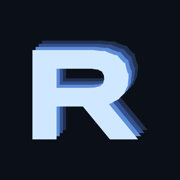
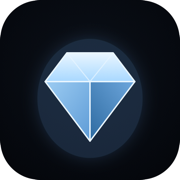
Replace native scrollbar with bottom chapter progress bar
YouTube-style frosted-glass bar pinned to the viewport bottom: 3 chapters
(About Us / Six Problems w/ one notch per cube / Contact). Fill tracks true
scroll through the 700vh rig, current chapter+notch highlight, labels on hover,
clicks smooth-scroll to each beat (RYNH face-on, per-cube center, contact).
Native scrollbar hidden cross-browser; bar hides on a cube dive (body.detail).

diff --git a/index.html b/index.html
@@ -3,7 +3,7 @@
 <head>
 <meta charset="utf-8" />
 <meta name="viewport" content="width=device-width, initial-scale=1, viewport-fit=cover" />
-<title>RYNH — Software, Automation & Strategy</title>
+<title>RYNH, Ryan Hosseini, Vancouver Software Developer</title>
 <meta name="description" content="RYNH builds custom software, automation, data systems, and digital strategy for small businesses. Engineering and business expertise from founder Ryan Hosseini. Based in Vancouver, serving worldwide." />
 <meta name="author" content="Ryan Hosseini" />
 <meta name="keywords" content="Ryan Hosseini, RYNH, Ryan Hosseini Vancouver, RYNH Vancouver, software developer Vancouver, business automation, custom software, full stack developer, SFU Beedie" />
@@ -182,6 +182,36 @@
   #sound{position:fixed;left:24px;bottom:22px;z-index:8;pointer-events:auto;background:none;border:none;color:var(--muted);font:500 12px/1 "Inter",sans-serif;letter-spacing:.12em;text-transform:uppercase;cursor:pointer;transition:color .2s,opacity .45s ease}
   #sound:hover{color:var(--ink)}
 
+  /* ---- bottom chapter progress bar (replaces the native browser scrollbar) ---- */
+  html{scrollbar-width:none;-ms-overflow-style:none}              /* Firefox / old Edge */
+  html::-webkit-scrollbar,body::-webkit-scrollbar{width:0;height:0;display:none}  /* Chromium/Vivaldi/Safari */
+  #prog{position:fixed;left:0;right:0;bottom:0;z-index:21;display:flex;align-items:flex-end;gap:11px;
+    padding:0 18px 11px;pointer-events:none;-webkit-user-select:none;user-select:none;
+    transition:opacity .45s ease, transform .55s cubic-bezier(.2,.7,.2,1)}
+  body.detail #prog{opacity:0;pointer-events:none;transform:translateY(160%)}     /* hide on a cube dive, like the rest of the chrome */
+  .prog-ch{display:flex;align-items:flex-end;gap:3px;flex:var(--w) 1 0;min-width:0;pointer-events:auto}  /* one chapter group; flex-grow = its scroll span */
+  .prog-seg{position:relative;flex:var(--w) 1 0;height:4px;min-width:2px;padding:0;border:0;cursor:pointer;
+    border-radius:3px;overflow:hidden;background:rgba(150,195,245,.15);
+    box-shadow:inset 0 0 0 .5px rgba(200,230,255,.16), inset 0 1px 0 rgba(255,255,255,.14);
+    -webkit-backdrop-filter:blur(7px) saturate(150%);backdrop-filter:blur(7px) saturate(150%);
+    transition:height .22s cubic-bezier(.2,.7,.2,1), background .22s ease}
+  .prog-seg .fil{position:absolute;inset:0;transform-origin:left center;transform:scaleX(0);border-radius:inherit;will-change:transform;
+    background:linear-gradient(90deg, rgba(120,200,240,.82) 0%, #bdeaff 100%);
+    box-shadow:0 0 10px rgba(143,220,255,.45), 0 0 2px rgba(220,245,255,.6)}
+  .prog-ch:hover .prog-seg,.prog-ch.on .prog-seg{height:7px;background:rgba(170,212,250,.2)}   /* whole chapter lifts when current / hovered */
+  .prog-seg.cur{height:8px}
+  .prog-seg:hover{height:10px;background:rgba(195,228,255,.3)}
+  .prog-seg.cur .fil,.prog-seg:hover .fil{box-shadow:0 0 15px rgba(143,220,255,.85), 0 0 3px rgba(225,247,255,.95)}
+  #prog-tip{position:fixed;z-index:22;transform:translateX(-50%) translateY(5px);opacity:0;pointer-events:none;white-space:nowrap;
+    font-family:"Space Grotesk",sans-serif;font-weight:600;font-size:12.5px;letter-spacing:.02em;color:#eaf6ff;
+    padding:6px 13px;border-radius:999px;background:rgba(10,16,24,.62);border:1px solid rgba(190,225,255,.22);
+    box-shadow:0 10px 26px rgba(0,0,0,.45),inset 0 1px 0 rgba(255,255,255,.12);
+    -webkit-backdrop-filter:blur(11px) saturate(150%);backdrop-filter:blur(11px) saturate(150%);
+    transition:opacity .16s ease, transform .16s ease}
+  #prog-tip.show{opacity:1;transform:translateX(-50%) translateY(0)}
+  @media (prefers-reduced-transparency:reduce){ .prog-seg{background:rgba(40,54,76,.9);-webkit-backdrop-filter:none;backdrop-filter:none} #prog-tip{background:#0e1722} }
+  @supports not ((backdrop-filter:blur(1px)) or (-webkit-backdrop-filter:blur(1px))){ .prog-seg{background:rgba(40,54,76,.85)} }
+
   /* "inside the cube" reveal: a frosted pane floating in the chamber, not a page */
   #detail{position:fixed;inset:0;z-index:50;display:flex;align-items:center;justify-content:center;padding:24px;opacity:0;visibility:hidden;transition:opacity .5s ease,visibility .5s;perspective:1100px}
   #detail.is-open{opacity:1;visibility:visible}
@@ -311,7 +341,7 @@
 </head>
 <body>
   <!-- pronunciation cue: plays when the RYNH crystal is clicked. drop rin.mp3 next to this file. -->
-  <audio id="say-rin" src="rin.mp3" preload="auto" playsinline></audio>
+  <audio id="say-rin" src="rin.m4a" preload="auto" playsinline></audio>
   <div id="loader">
     <div class="rynh-stage">
       <svg class="rynh-svg" viewBox="0 0 600 200" preserveAspectRatio="xMidYMid meet"><text x="300" y="100" text-anchor="middle" dominant-baseline="central" class="rynh-stroke">RYNH</text></svg>
@@ -346,6 +376,8 @@
   <div id="hint">Scroll ↓</div>
   <button id="sound" aria-pressed="true">♪ Sound: <span id="sound-state">On</span></button>
   <div id="hover-label"></div>
+  <nav id="prog" aria-label="Chapter progress"></nav>
+  <div id="prog-tip" role="status" aria-live="off"></div>
 
   <!-- Apple-style edge refraction for the detail card (Chromium/Vivaldi; Safari falls back to plain frosted glass) -->
   <svg width="0" height="0" style="position:absolute" aria-hidden="true"><filter id="cardDistort" x="-15%" y="-15%" width="130%" height="130%" color-interpolation-filters="sRGB">
@@ -414,7 +446,7 @@
     </ul>
   </nav>
 
-  <noscript><style>#loader,#stage,#scroll-rig,.beat,#hint{display:none!important}#fallback{display:block!important}</style></noscript>
+  <noscript><style>#loader,#stage,#scroll-rig,.beat,#hint,#prog,#prog-tip{display:none!important}#fallback{display:block!important}</style></noscript>
 
   <script type="importmap">
   {
@@ -461,7 +493,7 @@
     setTimeout(()=>document.getElementById('loader').classList.add('hide'), wait); }
   function showFallback(){ hideLoader();
     document.getElementById('stage').style.display='none'; document.getElementById('scroll-rig').style.display='none';
-    document.querySelectorAll('.beat,#hint').forEach(el=>el.style.display='none');
+    document.querySelectorAll('.beat,#hint,#prog,#prog-tip').forEach(el=>el.style.display='none');
     document.getElementById('fallback').classList.add('show'); }
 
   const reduce=matchMedia('(prefers-reduced-motion: reduce)').matches;
@@ -774,6 +806,39 @@
       tgtCurve=new THREE.CatmullRomCurve3(tt,false,'centripetal',0.5);
     }
     buildTour();
+
+    // ---- bottom chapter progress bar: About Us | Six Problems (6 notches) | Contact ----
+    let SEGS=[],GROUPS=[],progCur=-1;
+    (function buildProg(){
+      const prog=document.getElementById('prog'), tip=document.getElementById('prog-tip'); if(!prog)return;
+      const knots=[[0,0],[0.09,0.125],[0.34,0.25],[1,1]], np1=tourCubes.length+2;   // warp knots (p,u); np1 = (n+3)-1 = curve index span
+      const invWarp=u=>{ for(let i=1;i<knots.length;i++){ if(u<=knots[i][1]){ const t=(u-knots[i-1][1])/(knots[i][1]-knots[i-1][1]); return knots[i-1][0]+t*(knots[i][0]-knots[i-1][0]); } } return 1; };
+      const chapters=[                                                              // a/b = scroll-p span (segment width ∝ span -> fill front moves at true scroll speed)
+        {segs:[{a:0,b:0.30,anchor:0.09,label:'About Us'}]},                         // hero + RYNH fly-past; click -> RYNH face-on (p≈0.09)
+        {segs:tourCubes.map((c,k)=>({a:0.30+k*0.10,b:0.30+(k+1)*0.10,anchor:invWarp((k+2)/np1),label:c.userData.project.title}))},  // one notch per cube, in scroll order
+        {segs:[{a:0.90,b:1.0,anchor:1.0,label:'Contact'}]},
+      ];
+      const dMax=()=>document.documentElement.scrollHeight-innerHeight;
+      chapters.forEach(ch=>{ const g=document.createElement('div'); g.className='prog-ch';
+        g.style.setProperty('--w', ch.segs.reduce((s,x)=>s+(x.b-x.a),0)); GROUPS.push(g);
+        ch.segs.forEach(s=>{ const btn=document.createElement('button'); btn.type='button'; btn.className='prog-seg';
+          btn.style.setProperty('--w', s.b-s.a); btn.setAttribute('aria-label','Jump to '+s.label);
+          const fil=document.createElement('span'); fil.className='fil'; btn.appendChild(fil);
+          btn.addEventListener('click',()=>{ window.scrollTo({top:s.anchor*dMax(),behavior:reduce?'auto':'smooth'}); sfx.resume(); sfx.blip(); });
+          btn.addEventListener('pointerenter',()=>{ tip.textContent=s.label; const r=btn.getBoundingClientRect();
+            tip.style.left=(r.left+r.width/2)+'px'; tip.style.bottom=(innerHeight-r.top+12)+'px'; tip.classList.add('show'); sfx.hover(); });
+          btn.addEventListener('pointerleave',()=>tip.classList.remove('show'));
+          g.appendChild(btn); SEGS.push({el:btn,fil,a:s.a,b:s.b,group:g}); });
+        prog.appendChild(g); });
+    })();
+    function updateProg(p){ if(!SEGS.length)return; let cur=-1;
+      for(let i=0;i<SEGS.length;i++){ const s=SEGS[i], f=clamp((p-s.a)/(s.b-s.a),0,1); s.fil.style.transform='scaleX('+f.toFixed(4)+')';
+        if(p>=s.a&&p<s.b) cur=i; }
+      if(cur<0) cur=p<=0?0:SEGS.length-1;
+      if(cur!==progCur){ if(progCur>=0)SEGS[progCur].el.classList.remove('cur'); SEGS[cur].el.classList.add('cur');
+        GROUPS.forEach(g=>g.classList.toggle('on', g===SEGS[cur].group)); progCur=cur; }
+    }
+
     function warp(p){ const A=[[0,0],[0.09,0.125],[0.34,0.25],[1,1]];     // SLOW the RYNH->first-cube band: scroll 0.09-0.34 spans curve 0.125-0.25 (time to read + click before D&A)
       for(let i=1;i<A.length;i++){ if(p<=A[i][0]){ const t=(p-A[i-1][0])/(A[i][0]-A[i-1][0]); return A[i-1][1]+t*(A[i][1]-A[i-1][1]); } } return 1; }
     function clusterCam(p){
@@ -1011,6 +1076,7 @@
       updateOrbs(t);
       if(grade){ grade.uniforms.t.value=t; if(!dive) grade.uniforms.uTrans.value=0; }
       if(mode==='CLUSTER'||mode==='EXITING') updateCaptions(smooth);   // fade the captions back in DURING the exit (CSS-eased) instead of popping them at the end
+      updateProg(smooth);   // chapter bar tracks the eased scroll (hidden via body.detail during a dive)
 
       composer?composer.render():renderer.render(scene,camera);
       if(firstFrame){ firstFrame=false; setTimeout(hideLoader,4000); }